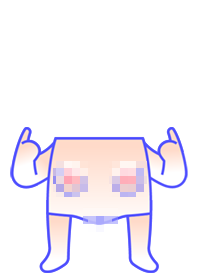
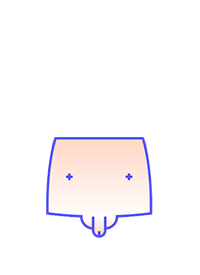
动画增加到 11 组

Changed region(s): [[0.03, 0.4364, 0.81, 1.0], [0.72, 0.4364, 0.96, 0.6982], [0.54, 0.5818, 0.72, 0.7273]]

diff --git a/assets/styles.css b/assets/styles.css
@@ -25,17 +25,25 @@ main {
 }
 .content > .inner{
 	display: flex;
-	flex-direction: column;
+	flex-direction: row;
 	flex-wrap: wrap;
 	height: 100vh;
 }
 .wrapper{
-	float: left;
-	font-size: 8px;
-	margin-bottom: 0px;
+	width: 80px;
+	height: 110px;
+}
+.wrapper:nth-of-type(odd){
+	transform: translateY(10%);
+}
+.wrapper:nth-of-type(even){
+	transform: translateY(-10%)scaleX(-1);
+}
+.wrapper > .inner{
+	position: relative;
 }
 .people{
-	display: inline-block;
+	display: block;
 	height: 110px;
 	position: relative;
 	width: 80px;
@@ -46,10 +54,19 @@ main {
 	width: 100%;
 	display: block;
 	height: 100%;
+	transition: all .15s ease-in-out;
 }
 .people div{
 	background-size: contain;
 }
+.hand{background-image: url(hand.png);}
+
+.body-0 .body{background-image: url(b0.png);}
+.body-1 .body{background-image: url(b1.png);}
+
+.body-0 .feet{background-image: url(f0.png);}
+.body-1 .feet{background-image: url(f1.png);}
+
 .head-0 .head{background-image: url(h0.png);}
 .head-1 .head{background-image: url(h1.png);}
 .head-2 .head{background-image: url(h2.png);}
@@ -61,6 +78,7 @@ main {
 .head-2 .eye{background-image: url(e2.png);}
 .head-3 .eye{background-image: url(e3.png);}
 .head-4 .eye{background-image: url(e4.gif);}
+
 /* ~Eyes */
 .head-0 .eye{
 	animation: eye-0 2s ease-out infinite both;
@@ -76,7 +94,14 @@ main {
 	100%{opacity: 1;}
 }
 .head-1 .eye{
-	animation: eye-0 2s ease-out infinite both;
+	animation: eye-1 2s ease-out infinite both;
+}
+@keyframes eye-1 {
+	0%{opacity: 0;}
+	10%{opacity: 1;}
+	30%{opacity: 1;}
+	40%{opacity: 0;}
+	100%{opacity: 0;}
 }
 .head-2 .eye{
 	animation: eye-2 2s ease-out infinite both;
@@ -92,8 +117,13 @@ main {
 	100%{transform: translateX(-4%);}
 }
 /* ~Animations */
-.wrapper.ani-0:hover{
+
+/* 人跳起来 */
+.ani-0:hover{
 	animation: ani-a .8s ease-out infinite;
+}
+.ani-0:hover .feet{
+	animation: ani-a .8s ease-out .01s infinite;
 }
 @keyframes ani-a {
 	0%{transform: none;}
@@ -102,12 +132,12 @@ main {
 	34%{transform: translateY(-1em);}
 	44%{transform: none;}
 }
-.wrapper.ani-1:hover .head,
-.wrapper.ani-1:hover .eye,
-.wrapper.ani-1:hover .hair{
+.ani-1:hover .head,
+.ani-1:hover .eye,
+.ani-1:hover .hair{
 	animation: ani-b .4s ease-out infinite;
 }
-.wrapper.ani-1:hover .hair{
+.ani-1:hover .hair{
 	animation-delay: .01s;
 }
 @keyframes ani-b {
@@ -117,9 +147,10 @@ main {
 	75%{transform: translateX(-3%);}
 	100%{transform: none;}
 }
-.wrapper.ani-2:hover .head,
-.wrapper.ani-2:hover .eye,
-.wrapper.ani-2:hover .hair{
+/* 转头 */
+.ani-2:hover .head,
+.ani-2:hover .eye,
+.ani-2:hover .hair{
 	animation: ani-c .4s ease-out infinite;
 }
 @keyframes ani-c {
@@ -130,17 +161,22 @@ main {
 	100%{transform: none;}
 }
 /* 人慢慢晃 */
-.wrapper.ani-3:hover{
+.ani-3:hover {
 	animation: ani-c .7s cubic-bezier(.79,.03,1,.25) infinite;
 	transform-origin: bottom;
 }
+.ani-3:hover .head,
+.ani-3:hover .eye,
+.ani-3:hover .hair{
+	/* animation: ani-c .7s ease-in-out infinite; */
+}
 /* 点头 */
-.wrapper.ani-4:hover .head,
-.wrapper.ani-4:hover .eye,
-.wrapper.ani-4:hover .hair{
+.ani-4:hover .head,
+.ani-4:hover .eye,
+.ani-4:hover .hair{
 	animation: ani-d 1s ease-out infinite;
 }
-.wrapper.ani-4:hover .hair{
+.ani-4:hover .hair{
 	animation-delay: .01s;
 }
 @keyframes ani-d {
@@ -153,4 +189,148 @@ main {
 	30%{transform: none;}
 	35%{transform: translateY(-2%);}
 	40%{transform: none;}
+}
+/* 头发吹走 */
+.ani-5:hover .hair{
+	animation: ani-e 2s ease-in-out both;
+	transform-origin: 50% 10%;
+}
+@keyframes ani-e {
+	0%{transform: none;}
+	100%{transform: translateX(-30rem) rotate(1turn);opacity: 0;}
+}
+/* 人消失 */
+.ani-6{
+	overflow: hidden;
+}
+.ani-6 *{
+	transition: .15s ease-in-out;
+}
+.ani-6 .mask::before,
+.ani-6 .mask::after{
+	display: block;
+	content: "";
+	width: 50%;
+	top: 0;
+	height: 100%;
+	position: absolute;
+	background: #fff;
+	transition: none;
+	/* animation: ani-f .5s cubic-bezier(.79,.03,1,.25) both; */
+}
+.ani-6:hover .mask::before,
+.ani-6:hover .mask::after{
+
+	transition: all .25s ease-in;
+}
+.ani-6 .mask::before{
+	left: -65%;
+	border-right: 2px solid #4646ff;
+}
+.ani-6:hover .mask::before{
+	left: 0;
+}
+.ani-6 .mask::after{
+	right: -65%;
+	border-left: 2px solid #4646ff;
+}
+.ani-6:hover .mask::after{
+	right: 0;
+}
+.ani-6:hover .people,
+.ani-6:hover .mask{
+	transform: scaleY(0);
+	transition-delay: .5s;
+}
+.ani-6:hover .mask{
+	transition-delay: .7s;
+}
+@keyframes ani-f {
+	0%{display: none;}
+	1%{background-image: url(m0.gif);display: block;}
+	99%{display: block;}
+	100%{display: none;background-image: url(m0.gif)}
+}
+/* 转身走开 */
+/* .ani-7{
+	background: #0f0;
+} */
+.ani-7 .mask{
+	background-image: url(back.png);
+	opacity: 0;
+}
+.ani-7:hover{
+	animation: ani-c .5s cubic-bezier(.79,.03,1,.25) infinite;
+	transform-origin: bottom;
+}
+.ani-7:hover .mask{
+	animation: ani-g2 10s ease-out both;
+}
+.ani-7:hover .people{
+	animation: ani-g 10s ease-out both;
+}
+.ani-7:hover .head,
+.ani-7:hover .eye,
+.ani-7:hover .hair,
+.ani-7:hover .body{
+	animation: ani-g3 10s ease-out both;
+}
+@keyframes ani-g {
+	0%{transform: none;}
+	3%{transform: rotateY(180deg);}
+	100%{transform: scale(0.01)rotateY(180deg);}
+}
+@keyframes ani-g2 {
+	0%{opacity: 0;}
+	3%{opacity: 1;}
+	100%{opacity: 1;}
+}
+@keyframes ani-g3 {
+	0%{opacity: 1;}
+	3%{opacity: 0;}
+	100%{opacity: 0;}
+}
+/* 外星人抓走 */
+.ani-8{
+	/* background: #f5f5f5; */
+}
+.ani-8:hover .people{
+	animation: ani-h 2s cubic-bezier(1,0,1,0) both;
+	z-index: 99;
+}
+.ani-8 .mask-outer::before{
+	content: "";
+	background: url(beam.png) no-repeat bottom center;
+	background-size: contain;
+	opacity: 0;
+	transform: translateY(-1em)scaleX(0);
+	transition: .12s ease-out;
+}
+.ani-8:hover .mask-outer::before{
+	position: absolute;
+	height: 1000px;
+	width: 80px;
+	display: block;
+	top: -880px;
+	left: 0;
+	z-index: 101;
+	opacity: .9;
+	transform: translateY(0)scaleX(1);
+}
+.ani-8:hover .people{
+	z-index: 999;
+}
+@keyframes ani-h {
+	0%{transform: none;}
+	70%{filter: blur(1px);}
+	100%{transform: translateY(-1000px);}
+}
+/* 竖中指 */
+.ani-9:hover .hand{
+	animation: ani-i .5s cubic-bezier(.79,.03,1,.25) infinite;
+}
+@keyframes ani-i {
+	0%{transform: none;}
+	50%{transform: translateY(-4%);}
+	100%{transform: none;}
 }

diff --git a/index.html b/index.html
@@ -17,22 +17,27 @@
 	<main id="demo">
 		<div class="content">
 			<div class="inner">
-				<div v-for="n in numbers" class="wrapper" :class="['ani-'+randomNumber(4),'head-'+randomNumber(4)]">
-					<div class="people">
-						<img class="bd" :src="'assets/b'+randomNumber(1)+'.png'">
-						<div class="head"></div>
-						<div class="eye"></div>
-						<!-- <img class="hd" :src="'assets/h'+randomNumber(4)+'.png'"> -->
-						<img class="hair" :src="'assets/t'+randomNumber(12)+'.png'">
-					</div>
-					<!-- <p>
-						<strong>张{{200-n}}</strong>
-					</p> -->
+				<div v-for="n in numbers" class="wrapper">
+					<div class="inner"  :class="['ani-'+randomNumber(9),'head-'+randomNumber(4),'body-'+randomNumber(1)]">
 
+						<div class="people">
+
+							<div class="hand"></div>
+							<div class="feet"></div>
+							<div class="body"></div>
+							<div class="head"></div>
+							<div class="eye"></div>
+							<img class="hair" :src="'assets/t'+randomNumber(12)+'.png'">
+							<div class="mask"></div>
+						</div>
+
+						<div class="mask-outer"></div>
+
+					</div>
 				</div>
 			</div>
 		</div>
-		<a @click="reSeed()">Re-seed</a><br><br><br>
+		<!-- <a @click="reSeed()">Re-seed</a><br><br><br> -->
 	</main>
 
 

diff --git a/assets/main.js b/assets/main.js
@@ -7,8 +7,6 @@ var g = new Vue({
   },
   methods: {
     randomNumber: function (x) {
-      console.log(this.globalSeed);
-      // this.globalSeed = Math.random()
       x = Math.random() * x
       return (x.toFixed(0))
     },
